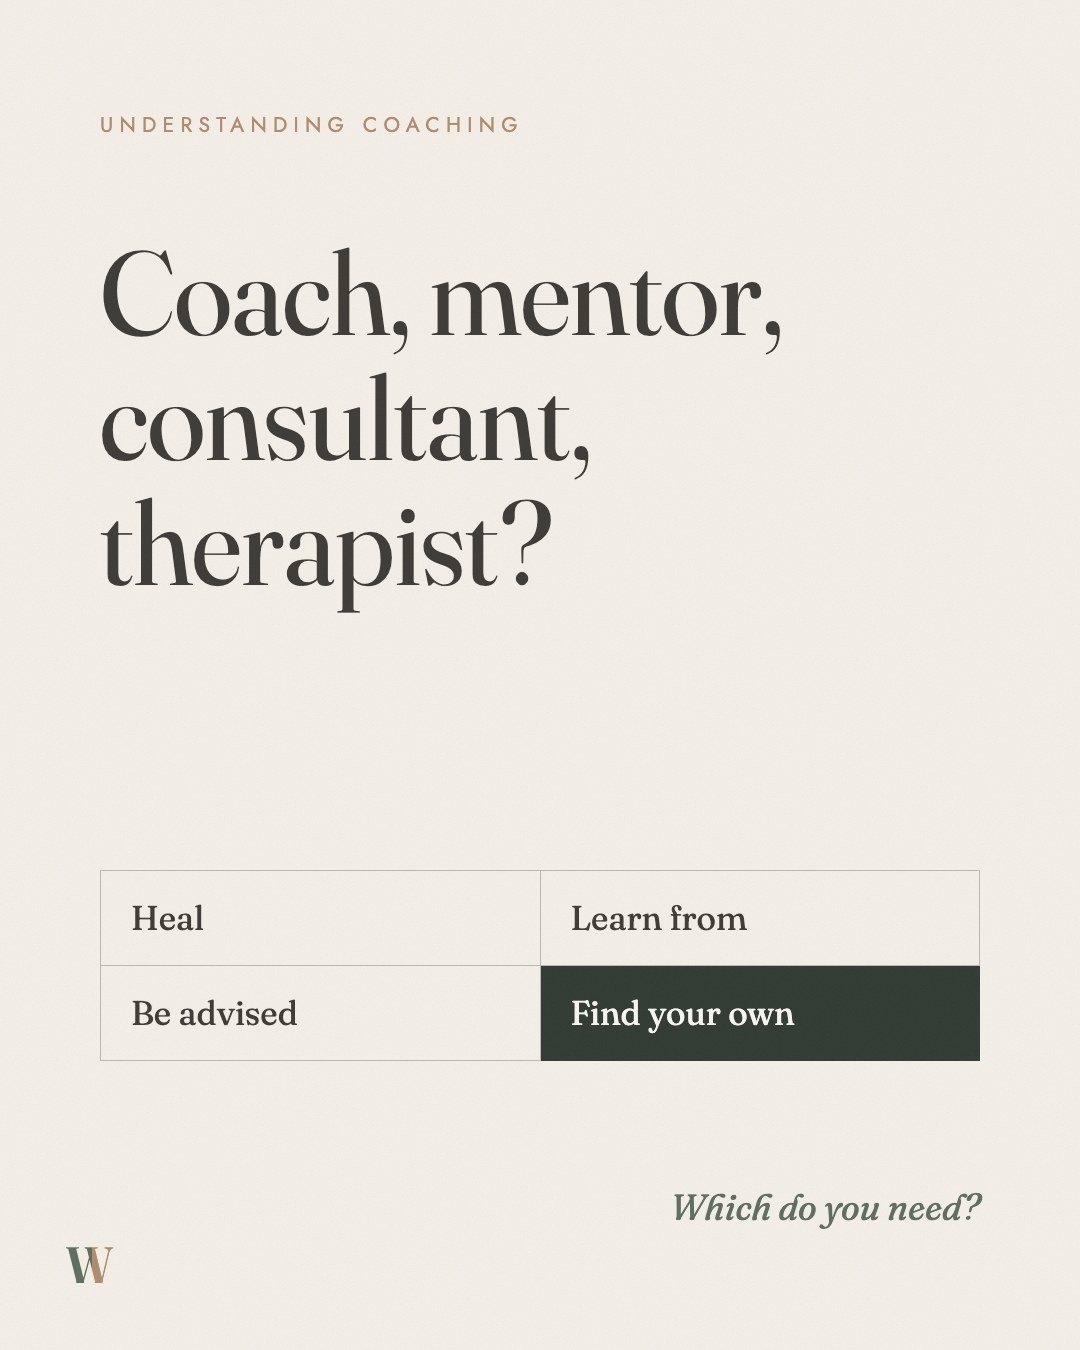
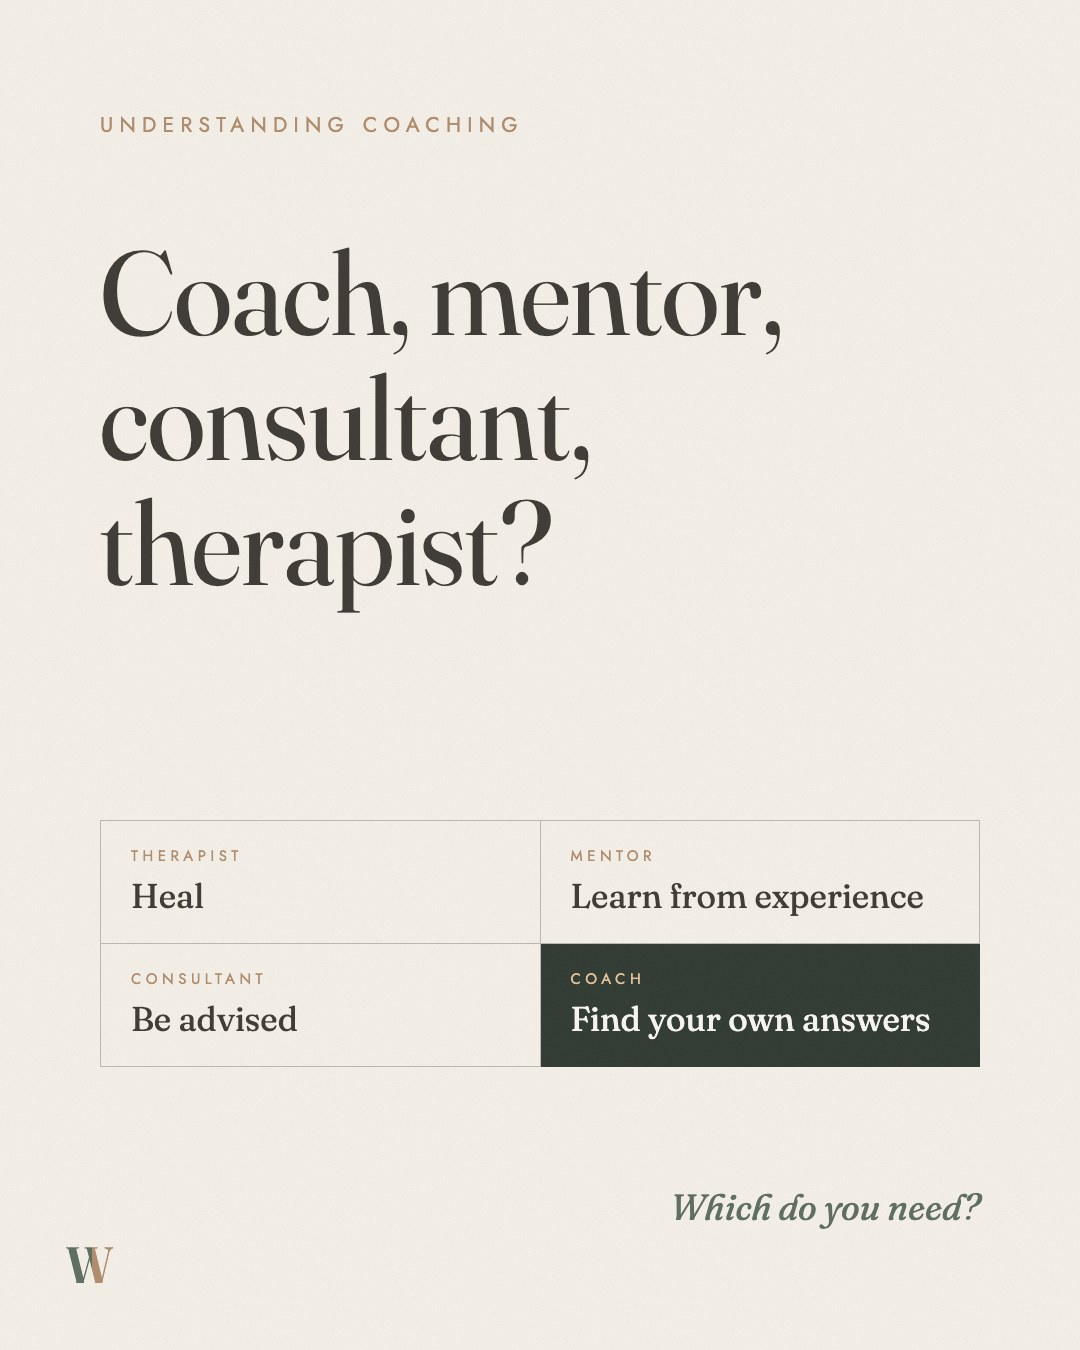
Post 02: roles named in the boxes

Changed region(s): [[0.4889, 0.6222, 0.9167, 0.8089], [0.1222, 0.6222, 0.275, 0.7778]]

diff --git a/index.html b/index.html
@@ -20,7 +20,7 @@
 <a class="brand" href="./"><svg class="mark"><use href="#ww"/></svg><span><b>WithinWorks</b><small>The Brain</small></span></a>
 </div></header>
 <div class="shell">
-<a class="now" href="content/"><span><p class="eyebrow">Now &middot; Collection 1</p><h2>Fifteen posts across the themes</h2><small id="now-status">For Megha&rsquo;s review</small></span><span class="thumbs"><img src="posts/c1-1a.jpg?v=1793868461" alt=""><img src="posts/c1-5a.jpg?v=1793814574" alt=""><img src="posts/c1-11a.jpg?v=1793814610" alt=""></span></a>
+<a class="now" href="content/"><span><p class="eyebrow">Now &middot; Collection 1</p><h2>Fifteen posts across the themes</h2><small id="now-status">For Megha&rsquo;s review</small></span><span class="thumbs"><img src="posts/c1-1a.jpg?v=1793868461" alt=""><img src="posts/c1-5a.jpg?v=1794311601" alt=""><img src="posts/c1-11a.jpg?v=1793814610" alt=""></span></a>
 <nav class="menu"><a class="door tint" href="content/"><span><span class="n">01</span><h3>Instagram</h3><p>Collection 1: fifteen posts for approval</p></span><span class="go">&rarr;</span></a><a class="door" href="linkedin/"><span><span class="n">02</span><h3>LinkedIn</h3><p>Her story, coaching, and the next step</p></span><span class="go">&rarr;</span></a><a class="door" href="stories/"><span><span class="n">03</span><h3>Stories</h3><p>Instagram stories for approval</p></span><span class="go">&rarr;</span></a><a class="door" href="reel-cuts/"><span><span class="n">04</span><h3>Reels</h3><p>The first two reels, ready to watch</p></span><span class="go">&rarr;</span></a><a class="door" href="strategy.html"><span><span class="n">05</span><h3>Strategy</h3><p>The plan for her brand</p></span><span class="go">&rarr;</span></a><a class="door" href="megha.html"><span><span class="n">06</span><h3>Megha</h3><p>Career, credentials, life</p></span><span class="go">&rarr;</span></a><a class="door" href="voice.html"><span><span class="n">07</span><h3>Voice</h3><p>Her words and her form answers</p></span><span class="go">&rarr;</span></a><a class="door" href="audience.html"><span><span class="n">08</span><h3>Audience</h3><p>Who she wants to work with</p></span><span class="go">&rarr;</span></a><a class="door" href="brand.html"><span><span class="n">09</span><h3>Brand</h3><p>Logo, colours, fonts</p></span><span class="go">&rarr;</span></a><a class="door" href="offers.html"><span><span class="n">10</span><h3>Offers</h3><p>Discovery call and three offers</p></span><span class="go">&rarr;</span></a><a class="door" href="tech.html"><span><span class="n">11</span><h3>Tech</h3><p>Website, hosting, tools</p></span><span class="go">&rarr;</span></a><a class="door" href="photos.html"><span><span class="n">12</span><h3>Photos</h3><p>Megha&rsquo;s photos, numbered</p></span><span class="go">&rarr;</span></a><a class="door" href="research.html"><span><span class="n">13</span><h3>Research</h3><p>Coaching, references, likes and dislikes</p></span><span class="go">&rarr;</span></a><a class="door" href="ideas.html"><span><span class="n">14</span><h3>Ideas</h3><p>Add an idea or a link</p></span><span class="go">&rarr;</span></a></nav>
 </div>
 

diff --git a/content/index.html b/content/index.html
@@ -37,7 +37,7 @@ Here, I share the questions, practices and moments that helped me find mine.</te
 <p class="eyebrow" style="margin-bottom:10px">02 &middot; Understanding coaching</p>
 <div class="ig">
   <div class="ig-head"><img src="../assets/megha.jpg" alt=""><span><b>megha.withinworks</b><small>Dubai</small></span><span class="dots">&middot;&middot;&middot;</span></div>
-  <div class="ig-media"><div class="ig-track"><img src="../posts/c1-5a.jpg?v=1793814574" alt="" loading="lazy" width="1080" height="1350"><img src="../posts/c1-5b.jpg?v=1793814575" alt="" loading="lazy" width="1080" height="1350"></div><span class="ig-count">1/2</span><button class="ig-arrow prev" aria-label="Previous" hidden>&#8249;</button><button class="ig-arrow next" aria-label="Next">&#8250;</button></div>
+  <div class="ig-media"><div class="ig-track"><img src="../posts/c1-5a.jpg?v=1794311601" alt="" loading="lazy" width="1080" height="1350"><img src="../posts/c1-5b.jpg?v=1794311602" alt="" loading="lazy" width="1080" height="1350"></div><span class="ig-count">1/2</span><button class="ig-arrow prev" aria-label="Previous" hidden>&#8249;</button><button class="ig-arrow next" aria-label="Next">&#8250;</button></div>
   <div class="ig-bar"><svg viewBox="0 0 24 24" class=""><path d="M12 21s-7.5-4.6-9.3-9.2C1.4 8.4 3.6 5 7 5c2 0 3.4 1.1 5 3 1.6-1.9 3-3 5-3 3.4 0 5.6 3.4 4.3 6.8C19.5 16.4 12 21 12 21z"/></svg><svg viewBox="0 0 24 24" class=""><path d="M20.5 12a8.5 8.5 0 0 1-12.4 7.5L3.5 21l1.5-4.4A8.5 8.5 0 1 1 20.5 12z"/></svg><svg viewBox="0 0 24 24" class=""><path d="M22 3 9.2 10.1M22 3l-7 18-3.8-8.6L2 9.5 22 3z"/></svg><span class="ig-pips"><i></i><i></i></span><svg viewBox="0 0 24 24" class="save"><path d="M19 21l-7-5.2L5 21V3h14z"/></svg></div>
   <div class="ig-cap clip"><b>megha.withinworks</b>All four are valuable. They just do different jobs.
 
